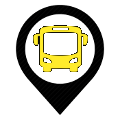
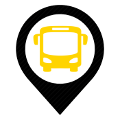
- Added View Points (graphic improvement) - minor fix in bus lines filter - linea 1 color changed

Changed region(s): [[0.275, 0.2, 0.75, 0.6]]

diff --git a/app/src/main/java/com/triskelapps/busjerez/util/DataProcessUtil.java b/app/src/main/java/com/triskelapps/busjerez/util/DataProcessUtil.java
@@ -94,6 +94,7 @@ public class DataProcessUtil {
                             busLine.setName(nameLine);
 //                            busLine.setId(Integer.parseInt(nameLine.replace("Línea", "").trim()));
                             busLine.setId(lineNumber);
+                            busLine.setFinalBusStop(getFinalBusStop(lineNumber));
 
                             if (jsonFeature.getJSONObject("properties").has("description")) {
                                 String descriptionLine = jsonFeature.getJSONObject("properties").getString("description");
@@ -126,5 +127,65 @@ public class DataProcessUtil {
 
         String busLinesData = new Gson().toJson(busLines);
         Log.i(TAG, "processData: BusLines data: " + busLinesData);
+    }
+
+    // TODO This is not working. need bus stop code
+    private String getFinalBusStop(int lineNumber) {
+        switch (lineNumber) {
+            case 1:
+                return "San Telmo";
+
+            case 2:
+                return "Picadueña Baja";
+
+            case 3:
+                return "Las Torres";
+
+            case 4:
+                return "Hipercor";
+
+            case 5:
+                return "Guadalcacín";
+
+            case 6:
+                return "Avda. Europa";
+
+            case 7:
+                return "Estella";
+
+            case 8:
+            case 9:
+                return null; // Circulares
+
+            case 10:
+                return "Urgencias";
+
+            case 11:
+                return "La Marquesa";
+
+            case 12:
+                return "Avda. Europa";
+
+            case 13:
+                return "Asisa";
+
+            case 14:
+                return "Rotonda 6";
+
+            case 15:
+                return "El Portal";
+
+            case 16:
+                return "Ortega y Gasset";
+
+            case 17:
+                return "Montealto";
+
+            case 18:
+                return "Area Sur";
+
+            default:
+                return null;
+        }
     }
 }

diff --git a/app/src/main/java/com/triskelapps/busjerez/PointBusStopView.java b/app/src/main/java/com/triskelapps/busjerez/PointBusStopView.java
@@ -1,0 +1,46 @@
+package com.triskelapps.busjerez;
+
+import android.content.Context;
+import android.util.AttributeSet;
+import android.view.LayoutInflater;
+import android.widget.FrameLayout;
+
+import androidx.annotation.Nullable;
+import androidx.core.graphics.drawable.DrawableCompat;
+
+import com.triskelapps.busjerez.databinding.ViewPointBusStopBinding;
+
+public class PointBusStopView extends FrameLayout {
+    private ViewPointBusStopBinding binding;
+
+    public PointBusStopView(Context context) {
+        super(context);
+        init();
+    }
+
+    public PointBusStopView(Context context, @Nullable AttributeSet attrs) {
+        super(context, attrs);
+        init();
+    }
+
+    public PointBusStopView(Context context, @Nullable AttributeSet attrs, int defStyleAttr) {
+        super(context, attrs, defStyleAttr);
+        init();
+    }
+
+    private void init() {
+        binding = ViewPointBusStopBinding.inflate(LayoutInflater.from(getContext()));
+        addView(binding.getRoot());
+    }
+
+    public void setColor(int color) {
+        DrawableCompat.setTint(binding.viewBusStopLineLeft.getBackground(), color);
+        DrawableCompat.setTint(binding.viewBusStopLineRight.getBackground(), color);
+        DrawableCompat.setTint(binding.viewBusStopPoint.getBackground(), color);
+    }
+
+    public void configureStartEndPoint(int position, int size) {
+        binding.viewBusStopLineLeft.setVisibility(position == 0 ? INVISIBLE : VISIBLE);
+        binding.viewBusStopLineRight.setVisibility(position == size - 1 ? INVISIBLE : VISIBLE);
+    }
+}

diff --git a/app/src/main/java/com/triskelapps/busjerez/model/BusLine.java b/app/src/main/java/com/triskelapps/busjerez/model/BusLine.java
@@ -13,6 +13,8 @@ public class BusLine implements Serializable {
     private List<BusStop> busStops;
     private List<List<Double>> path = new ArrayList<>();
 
+    private String finalBusStop;
+
     private transient boolean visible = true;
 
     public String getName() {
@@ -76,5 +78,13 @@ public class BusLine implements Serializable {
 
     public void setColor(int color) {
         this.color = color;
+    }
+
+    public String getFinalBusStop() {
+        return finalBusStop;
+    }
+
+    public void setFinalBusStop(String finalBusStop) {
+        this.finalBusStop = finalBusStop;
     }
 }

diff --git a/app/src/main/java/com/triskelapps/busjerez/App.java b/app/src/main/java/com/triskelapps/busjerez/App.java
@@ -93,6 +93,10 @@ public class App extends Application {
             int colorId = context.getResources().getIdentifier("line" + busLine.getId(), "color", context.getPackageName());
             busLine.setColor(ContextCompat.getColor(context, colorId));
 
+//            if (busLine.getId() == 1) {
+//                busLine.set
+//            }
+
             BusLineVisible busLineVisible = db.busLineVisibleDao().getBusLineVisible(busLine.getId());
             busLine.setVisible(busLineVisible.isVisible());
         }

diff --git a/app/src/main/java/com/triskelapps/busjerez/ui/main/filter/FilterBusLinesAdapter.java b/app/src/main/java/com/triskelapps/busjerez/ui/main/filter/FilterBusLinesAdapter.java
@@ -94,6 +94,8 @@ public class FilterBusLinesAdapter extends RecyclerView.Adapter<FilterBusLinesAd
                 if (itemClickListener != null) {
                     itemClickListener.onBusStopButtonClick(getAdapterPosition());
                     itemClickListener.onBusLineCheckedChanged(getAdapterPosition(), true);
+                    busLines.get(getAdapterPosition()).setVisible(true);
+                    notifyDataSetChanged();
                 }
             });
 

diff --git a/app/src/main/java/com/triskelapps/busjerez/ui/main/bus_stops/BusStopsAdapter.java b/app/src/main/java/com/triskelapps/busjerez/ui/main/bus_stops/BusStopsAdapter.java
@@ -47,6 +47,8 @@ public class BusStopsAdapter extends RecyclerView.Adapter<BusStopsAdapter.ViewHo
 
         holder.binding.tvName.setText(busStop.getName());
         holder.binding.imgBusStop.setColorFilter(busLineColor);
+        holder.binding.viewPointBusStop.setColor(busLineColor);
+        holder.binding.viewPointBusStop.configureStartEndPoint(position, busStops.size());
         holder.binding.getRoot().setSelected(selectedPosition == position);
 
     }

diff --git a/app/src/main/java/com/triskelapps/busjerez/ui/main/filter/FilterBusLinesFragment.java b/app/src/main/java/com/triskelapps/busjerez/ui/main/filter/FilterBusLinesFragment.java
@@ -50,6 +50,7 @@ public class FilterBusLinesFragment extends BaseMainFragment implements FilterBu
 
     @Override
     public void onBusLineCheckedChanged(int position, boolean checked) {
+        busLines.get(position).setVisible(checked);
         getMainPresenter().onBusLineCheckedChanged(position, checked);
     }
 
